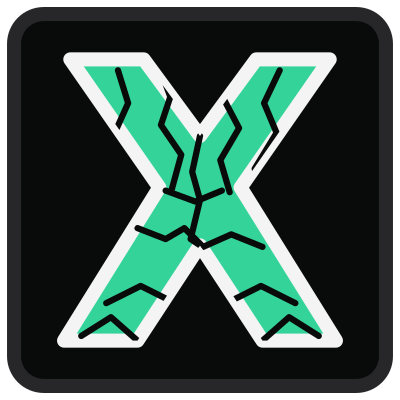
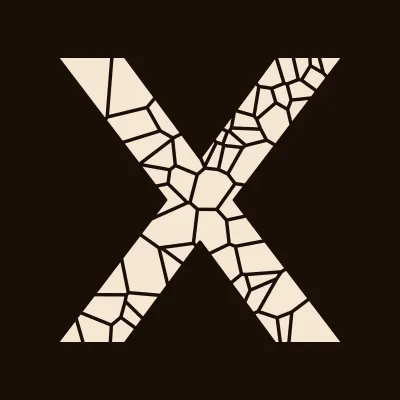
Clarify extension chat and handoff UX

diff --git a/extensions/xupra-drylake-vscode/src/webview/controlRoomProvider.ts b/extensions/xupra-drylake-vscode/src/webview/controlRoomProvider.ts
@@ -24,7 +24,7 @@ const MODE_CARDS: Array<[string, XuMode, string]> = [
 ];
 
 const PLANNING_PROVIDERS: Array<[DryLakeProviderId, string, string]> = [
-  ["xupra-pro-ai", "Xupra AI", "Hosted planning"],
+  ["xupra-pro-ai", "Xupra AI Pro", "Foundation planning"],
   ["databricks-api", "Databricks API", "BYO endpoint"],
   ["claude-api", "Claude API", "BYO Anthropic key"],
   ["openai-api", "OpenAI API", "BYO OpenAI key"],
@@ -384,32 +384,78 @@ function estimateCardGenerationContext(state: ChatState, hasPlan: boolean) {
   };
 }
 
+function planningProviderLabel(
+  id: DryLakeProviderId,
+  label: string,
+  description: string,
+  modelTier: PlanningModelTier | null,
+) {
+  if (id !== "xupra-pro-ai") {
+    return `${label} - ${description}`;
+  }
+
+  if (modelTier === "nano") {
+    return "GPT-5.4 Nano - Free card planning";
+  }
+
+  return "Xupra AI Pro - Foundation planning";
+}
+
+function renderPlannerSetup(
+  planningProvider: PlanningProviderInfo | null,
+  hasPlan: boolean,
+  modelTier: PlanningModelTier | null,
+) {
+  const activeProviderId = planningProvider?.id ?? "xupra-pro-ai";
+  const providerOptions = PLANNING_PROVIDERS.map(([id, label, description]) => {
+    const selected = id === activeProviderId ? " selected" : "";
+    return `<option value="${escapeHtml(id)}"${selected}>${escapeHtml(planningProviderLabel(id, label, description, modelTier))}</option>`;
+  }).join("");
+  const providerLocked = hasPlan ? " disabled" : "";
+  const providerTitle = hasPlan
+    ? "This plan keeps the AI provider selected when the session started."
+    : "Choose what powers card generation before sending the first message.";
+  const providerStatus = hasPlan
+    ? "Locked for this plan"
+    : modelTier === "nano"
+      ? "Free users use GPT-5.4 Nano, or they can bring their own API key."
+      : "Choose the provider that will generate the first cards.";
+  const modeChips = hasPlan
+    ? ""
+    : `<div class="mode-row" aria-label="Plan type">${MODE_CARDS.map(([title, mode], index) => {
+        return `<button type="button" class="mode-chip${index === 0 ? " active" : ""}" data-mode="${mode}" aria-pressed="${index === 0 ? "true" : "false"}">${escapeHtml(title)}</button>`;
+      }).join("")}</div>`;
+
+  return `<section class="planner-setup" aria-label="Card generation setup">
+    <div class="planner-setup-header">
+      <div>
+        <div class="planner-setup-eyebrow">Card Generation</div>
+        <div class="planner-setup-title">Choose the AI provider before chat starts.</div>
+      </div>
+      <div class="planner-setup-status">${escapeHtml(providerStatus)}</div>
+    </div>
+    ${modeChips}
+    <label class="planning-provider-label" title="${escapeHtml(providerTitle)}">
+      <span>AI Provider</span>
+      <select id="planningProviderSelect" class="planning-provider-select"${providerLocked} aria-label="AI provider">
+        ${providerOptions}
+      </select>
+    </label>
+  </section>`;
+}
+
 function renderChatPanel(
   state: ChatState,
   planningProvider: PlanningProviderInfo | null,
   hasPlan: boolean,
   collapsed: boolean,
+  modelTier: PlanningModelTier | null,
 ) {
   const cardContext = estimateCardGenerationContext(state, hasPlan);
-  const activeProviderId = planningProvider?.id ?? "xupra-pro-ai";
-  const activeProviderLabel = planningProvider?.label ?? "Planning AI";
-  const modeChips = MODE_CARDS.map(([title, mode], index) => {
-    return `<button type="button" class="mode-chip${index === 0 ? " active" : ""}" data-mode="${mode}" aria-pressed="${index === 0 ? "true" : "false"}">${escapeHtml(title)}</button>`;
-  }).join("");
-  const providerOptions = PLANNING_PROVIDERS.map(([id, label, description]) => {
-    const selected = id === activeProviderId ? " selected" : "";
-    return `<option value="${escapeHtml(id)}"${selected}>${escapeHtml(label)} - ${escapeHtml(description)}</option>`;
-  }).join("");
-  const providerLocked = hasPlan ? " disabled" : "";
-  const providerTitle = hasPlan
-    ? "This plan keeps the planning provider selected when the session started."
-    : "Choose the planning provider before sending the first message.";
-  const providerSelector = `<label class="planning-provider-label" title="${escapeHtml(providerTitle)}">
-    <span>Planning Agent</span>
-    <select id="planningProviderSelect" class="planning-provider-select"${providerLocked} aria-label="Planning provider">
-      ${providerOptions}
-    </select>
-  </label>`;
+  const activeProviderLabel = modelTier === "nano" && planningProvider?.id === "xupra-pro-ai"
+    ? "GPT-5.4 Nano"
+    : planningProvider?.label ?? "Planning AI";
+  const plannerSetup = renderPlannerSetup(planningProvider, hasPlan, modelTier);
   const messages = state.messages.length
     ? state.messages
         .map((message) => {
@@ -425,9 +471,10 @@ function renderChatPanel(
         .join("")
     : `<div class="chat-empty">Describe what you want to build. The AI will generate a phased plan and populate the kanban below.</div>`;
 
-  return `<section class="chat-panel${collapsed ? " collapsed" : ""}" aria-label="Planning chat" data-has-plan="${hasPlan ? "true" : "false"}">
+  return `${collapsed ? "" : plannerSetup}
+  <section class="chat-panel${collapsed ? " collapsed" : ""}" aria-label="Build plan chat" data-has-plan="${hasPlan ? "true" : "false"}">
     <div class="chat-header">
-      <span class="chat-eyebrow">Planning Chat</span>
+      <span class="chat-eyebrow">Build Plan Chat</span>
       <div class="chat-controls">
         <button type="button" class="chat-clear secondary" data-command="drylake.clearChat">Clear</button>
         <button type="button" class="collapse-btn secondary" data-command="drylake.toggleChatCollapsed">${collapsed ? "Expand" : "Collapse"}</button>
@@ -442,10 +489,8 @@ function renderChatPanel(
         <div class="context-meter-detail">${escapeHtml(cardContext.detail)}</div>
       </div>
       <div class="chat-messages" id="chatMessages">${messages}</div>
-      <div class="mode-row">${modeChips}</div>
-      ${providerSelector}
       <form class="chat-form" id="chatForm">
-        <textarea id="chatInput" rows="2" placeholder="${hasPlan ? "Tell the planning AI what to refine." : "e.g. Build a Stripe checkout flow with webhook handling"}"></textarea>
+        <textarea id="chatInput" rows="2" placeholder="${hasPlan ? "Ask DryLake to update these cards..." : "Describe what you want to build..."}"></textarea>
         <div class="chat-form-row">
           <span class="chat-hint muted">Enter to send</span>
           <button type="submit">Send</button>
@@ -610,8 +655,9 @@ export class ControlRoomProvider {
     const view = this.currentView();
     const planningProvider = this.readPlanningProvider();
     const chatState = this.readChatState();
-    const banner = renderPlanningModelBanner(this.readLastModelTier());
-    const chatPanel = renderChatPanel(chatState, planningProvider, Boolean(runbook), this.chatCollapsed());
+    const modelTier = this.readLastModelTier();
+    const banner = renderPlanningModelBanner(modelTier);
+    const chatPanel = renderChatPanel(chatState, planningProvider, Boolean(runbook), this.chatCollapsed(), modelTier);
     const body = this.readPlanningLoading()
       ? renderKanbanLoadingState()
       : runbook ? (view === "kanban" ? renderKanban(runbook, pendingPlanChange) : renderPipeline(runbook, pendingPlanChange)) : renderKanbanEmptyState();
@@ -686,6 +732,11 @@ export class ControlRoomProvider {
     @keyframes pulse { from { background-position: 200% 0; } to { background-position: -200% 0; } }
     .prompt-panel { margin-top: 14px; display: grid; gap: 12px; }
     textarea { width: 100%; min-height: 170px; resize: vertical; color: var(--drylake-text); background: var(--drylake-bg); border: 1px solid #3f3f46; border-radius: 4px; padding: 12px; line-height: 1.45; }
+    .planner-setup { display: grid; gap: 10px; padding: 12px 14px; margin: 0 0 10px; border: 1px solid var(--drylake-line); border-radius: 8px; background: var(--drylake-panel); }
+    .planner-setup-header { display: flex; align-items: flex-start; justify-content: space-between; gap: 12px; }
+    .planner-setup-eyebrow { color: var(--drylake-green); font-size: 10px; font-weight: 900; letter-spacing: 0.12em; text-transform: uppercase; }
+    .planner-setup-title { margin-top: 2px; color: var(--drylake-text); font-size: 12px; font-weight: 800; }
+    .planner-setup-status { max-width: 380px; color: var(--drylake-muted); font-size: 11px; line-height: 1.35; text-align: right; }
     .mode-row { display: flex; flex-wrap: wrap; gap: 6px; }
     .mode-chip { padding: 4px 8px; border: 1px solid #3f3f46; border-radius: 999px; color: var(--drylake-text); background: var(--drylake-bg); font-size: 10px; box-shadow: none; }
     .mode-chip.active { border-color: var(--drylake-green); background: var(--drylake-green-soft); color: #a7f3d0; }
@@ -740,7 +791,7 @@ export class ControlRoomProvider {
     .chat-form textarea { min-height: 56px; }
     .chat-form-row { display: flex; align-items: center; justify-content: space-between; gap: 8px; margin-top: 6px; }
     .chat-hint { font-size: 11px; }
-    @media (max-width: 860px) { header, .nano-banner { align-items: flex-start; flex-direction: column; } .kanban { grid-template-columns: 1fr; } }
+    @media (max-width: 860px) { header, .nano-banner, .planner-setup-header { align-items: flex-start; flex-direction: column; } .planner-setup-status { max-width: none; text-align: left; } .kanban { grid-template-columns: 1fr; } }
   </style>
 </head>
 <body>

diff --git a/extensions/xupra-drylake-vscode/src/agents/phaseAgentLauncher.ts b/extensions/xupra-drylake-vscode/src/agents/phaseAgentLauncher.ts
@@ -164,10 +164,11 @@ export const PHASE_AGENT_LAUNCHERS: Record<XuPhaseAgent, PhaseAgentLauncher> = {
     executable: "codex",
     commandSetting: "agents.codex.command",
     help: "Install Codex CLI and make the `codex` command available on PATH.",
-    terminalCommand: (promptFilePath, executableCommand = "codex") =>
-      fromPromptFile(crossShellCommand(executableCommand, "exec"), promptFilePath),
-    shellScriptCommand: shellPromptArgCommand("codex", "exec"),
-    batchScriptCommand: batchPromptArgCommand("codex", "exec"),
+    terminalCommand: (promptFilePath, executableCommand = "codex") => (isWindows()
+      ? `Get-Content -Raw ${quotePath(promptFilePath)} | ${powerShellCommand(executableCommand, "exec -")}`
+      : `cat ${quotePath(promptFilePath)} | ${shellCommand(executableCommand, "exec -")}`),
+    shellScriptCommand: shellPipeCommand("codex", "exec -"),
+    batchScriptCommand: batchPipeCommand("codex", "exec -"),
   },
   gemini: {
     id: "gemini",

diff --git a/extensions/xupra-drylake-vscode/src/test/phaseAgentLauncher.test.ts b/extensions/xupra-drylake-vscode/src/test/phaseAgentLauncher.test.ts
@@ -118,8 +118,8 @@ describe("phase agent launchers", () => {
 
     expect(PHASE_AGENT_LAUNCHERS["claude-code"].terminalCommand("/tmp/prompt.md")).toContain("claude -p");
     expect(PHASE_AGENT_LAUNCHERS.codex.terminalCommand("/tmp/prompt.md")).toContain("codex exec");
-    expect(PHASE_AGENT_LAUNCHERS.codex.shellScriptCommand('"$PROMPT_FILE"')).toBe('codex exec "$(cat "$PROMPT_FILE")"');
-    expect(PHASE_AGENT_LAUNCHERS.codex.batchScriptCommand()).toContain("codex exec $prompt");
+    expect(PHASE_AGENT_LAUNCHERS.codex.shellScriptCommand('"$PROMPT_FILE"')).toBe('cat "$PROMPT_FILE" | codex exec -');
+    expect(PHASE_AGENT_LAUNCHERS.codex.batchScriptCommand()).toContain("Get-Content -Raw $env:PROMPT_FILE | codex exec -");
     expect(PHASE_AGENT_LAUNCHERS.cursor.executable).toBe("cursor-agent");
     expect(PHASE_AGENT_LAUNCHERS.cursor.terminalCommand("/tmp/prompt.md")).toContain("cursor-agent -p");
     expect(PHASE_AGENT_LAUNCHERS.cursor.shellScriptCommand('"$PROMPT_FILE"')).toBe('cursor-agent -p "$(cat "$PROMPT_FILE")"');
@@ -174,6 +174,10 @@ describe("phase agent launchers", () => {
       );
       expect(mocks.terminal.sendText).toHaveBeenCalledWith(
         expect.stringContaining("codex exec"),
+        true,
+      );
+      expect(mocks.terminal.sendText).toHaveBeenCalledWith(
+        expect.stringContaining("exec -"),
         true,
       );
     } finally {

diff --git a/extensions/xupra-drylake-vscode/src/test/webview.test.ts b/extensions/xupra-drylake-vscode/src/test/webview.test.ts
@@ -169,7 +169,9 @@ describe("Control Room webview", () => {
     expect(html).toContain('data-handoff-action="run"');
     expect(html).not.toContain("handoff-action-select");
     expect(html).toContain("Require Approval Between Phases");
-    expect(html).toContain("Planning Chat");
+    expect(html).toContain("Build Plan Chat");
+    expect(html).toContain("AI Provider");
+    expect(html).toContain("Ask DryLake to update these cards...");
   });
 
   it("renders generated task-specific card previews", async () => {
@@ -398,6 +400,8 @@ describe("Control Room webview", () => {
 
     const html = panel?.webview.html ?? "";
     expect(html).toContain('id="planningProviderSelect"');
+    expect(html.indexOf('id="planningProviderSelect"')).toBeLessThan(html.indexOf("Build Plan Chat"));
+    expect(html.indexOf("Build Plan Chat")).toBeLessThan(html.indexOf('id="chatInput"'));
     expect(html).toContain('option value="xupra-pro-ai"');
     expect(html).toContain('option value="databricks-api"');
     expect(html).toContain('option value="claude-api"');
@@ -480,6 +484,8 @@ describe("Control Room webview", () => {
 
     expect(html).toContain("gpt-5.4-nano");
     expect(html).toContain("GPT 5.5 + Claude Opus 4.6");
+    expect(html).toContain("GPT-5.4 Nano - Free card planning");
+    expect(html).toContain("Free users use GPT-5.4 Nano, or they can bring their own API key.");
     expect(html).toContain("xupra.openBilling");
     expect(html).toContain('id="chatInput"');
     expect(html).not.toContain("chat-locked");